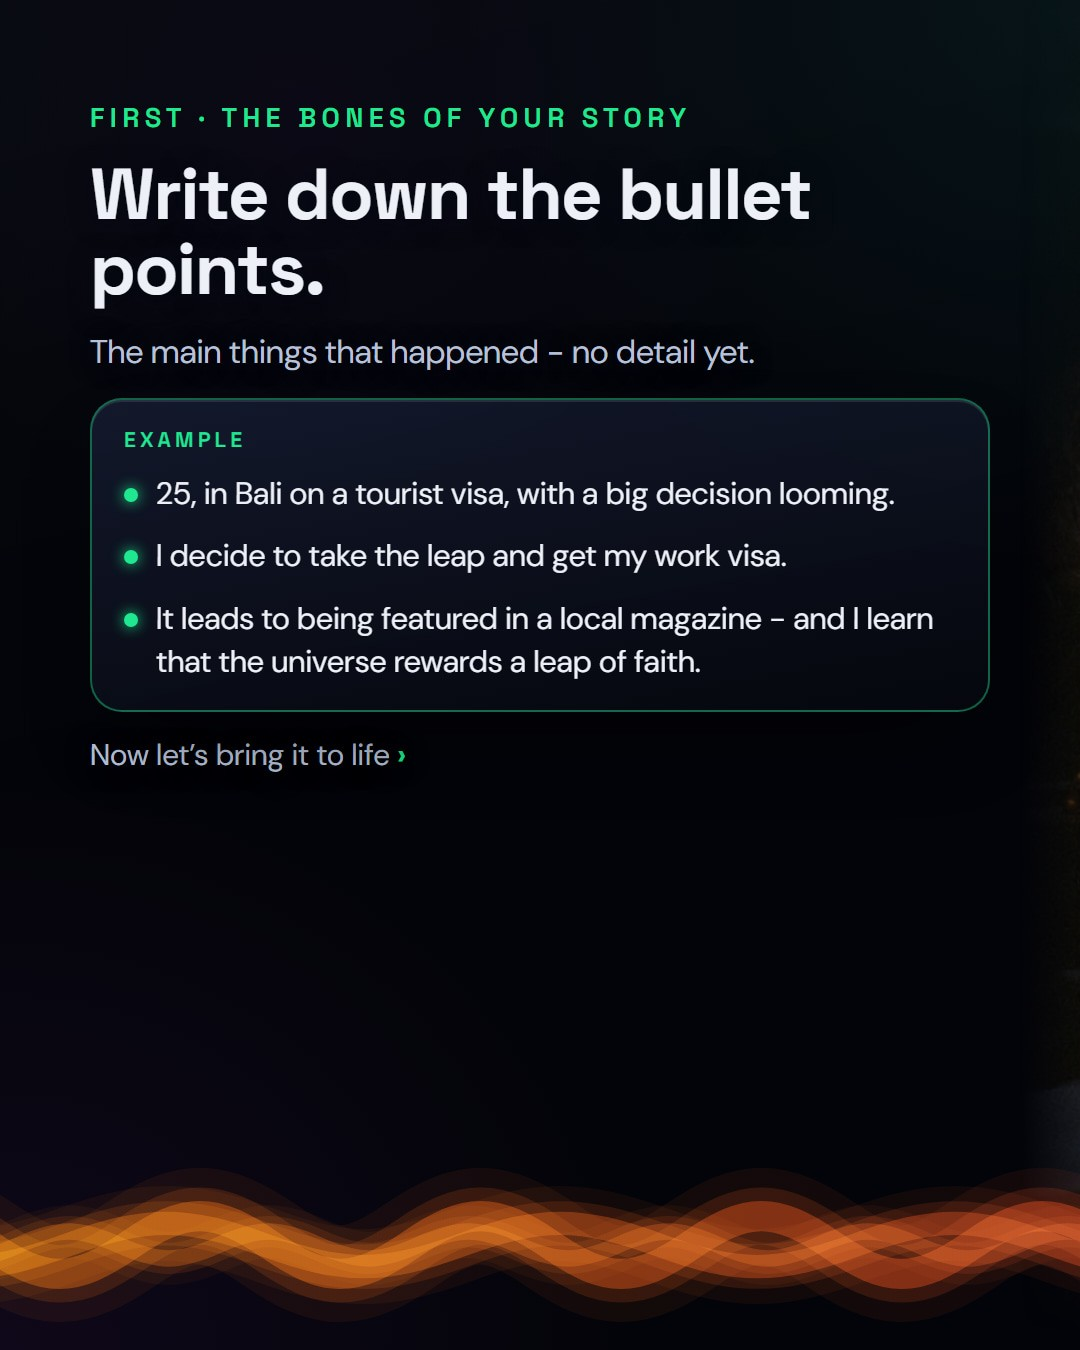
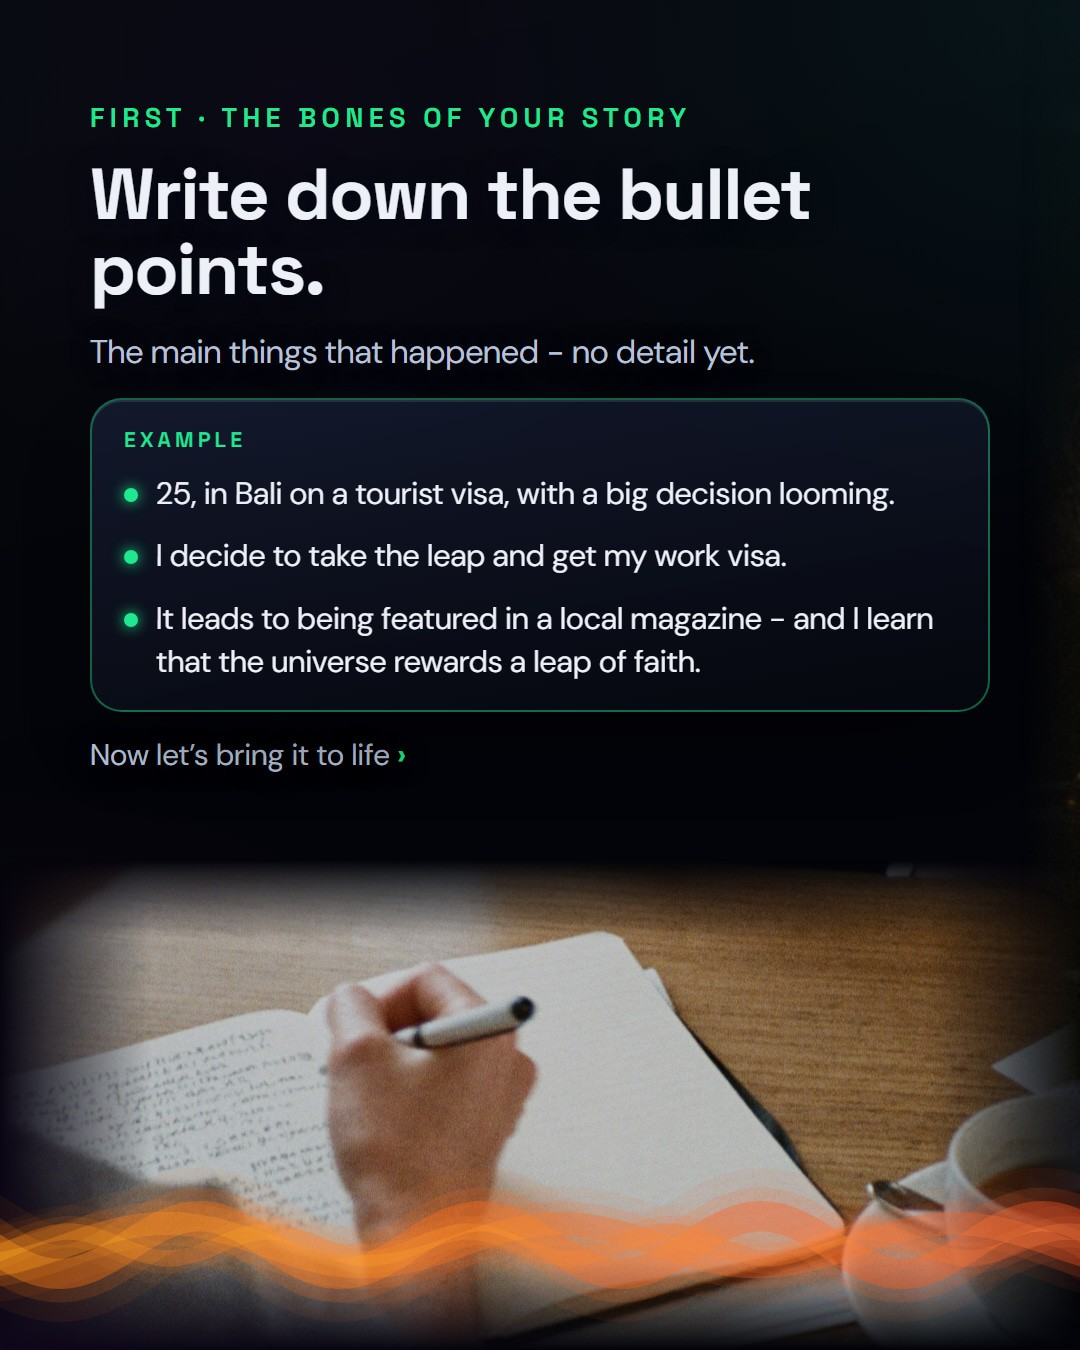
Phone deck viewer: Post 4 black - slide 4, pen and notebook

Changed region(s): [[0.0, 0.6222, 0.9778, 0.9956]]

diff --git a/public/d-BlBAiR0ZRDrG/post4-black.html b/public/d-BlBAiR0ZRDrG/post4-black.html
@@ -6,8 +6,8 @@ main{max-width:540px;margin:0 auto;padding:16px 16px 48px}h1{font-size:18px;marg
 .pano{overflow-x:auto;border-radius:8px}.pano img{height:260px;display:block}h2{font-size:14px;margin:22px 0 8px;color:#B9C0D8}.nav{position:absolute;top:50%;transform:translateY(-50%);width:46px;height:46px;border-radius:50%;border:1px solid rgba(255,255,255,.25);background:rgba(7,11,24,.72);color:#fff;font-size:26px;line-height:1;cursor:pointer;display:flex;align-items:center;justify-content:center;backdrop-filter:blur(6px)}
 .nav:disabled{opacity:.25;cursor:default}#prev{left:10px}#next{right:10px}.dots i{cursor:pointer;width:9px;height:9px}.count{text-align:center;font-size:13px;color:#8790AB;margin-top:-8px}</style></head><body><main>
 <a href="index.html">‹ All</a><h1>Post 4 · How to Tell Epic Stories - black</h1><small>15 slides · swipe like Instagram</small><small style="display:block;margin:6px 0">Version: <a href="post4.html">Glassy gradient</a> · <a href="post4-black.html">Black</a></small>
-<div class="wrap"><div class="car" id="c"><img src="post4-black/01.jpg?v=20" alt="Slide 1"><img src="post4-black/02.jpg?v=20" alt="Slide 2"><img src="post4-black/03.jpg?v=20" alt="Slide 3"><img src="post4-black/04.jpg?v=20" alt="Slide 4"><img src="post4-black/05.jpg?v=20" alt="Slide 5"><img src="post4-black/06.jpg?v=20" alt="Slide 6"><img src="post4-black/07.jpg?v=20" alt="Slide 7"><img src="post4-black/08.jpg?v=20" alt="Slide 8"><img src="post4-black/09.jpg?v=20" alt="Slide 9"><img src="post4-black/10.jpg?v=20" alt="Slide 10"><img src="post4-black/11.jpg?v=20" alt="Slide 11"><img src="post4-black/12.jpg?v=20" alt="Slide 12"><img src="post4-black/13.jpg?v=20" alt="Slide 13"><img src="post4-black/14.jpg?v=20" alt="Slide 14"><img src="post4-black/15.jpg?v=20" alt="Slide 15"></div><button class="nav" id="prev" aria-label="Previous slide">&#8249;</button><button class="nav" id="next" aria-label="Next slide">&#8250;</button></div><div class="dots" id="d"><i></i><i></i><i></i><i></i><i></i><i></i><i></i><i></i><i></i><i></i><i></i><i></i><i></i><i></i><i></i></div><p class="count" id="n"></p>
-<h2>The whole panorama (scroll sideways)</h2><div class="pano"><img src="post4-black/panorama.jpg?v=20" alt="Full panorama"></div>
+<div class="wrap"><div class="car" id="c"><img src="post4-black/01.jpg?v=21" alt="Slide 1"><img src="post4-black/02.jpg?v=21" alt="Slide 2"><img src="post4-black/03.jpg?v=21" alt="Slide 3"><img src="post4-black/04.jpg?v=21" alt="Slide 4"><img src="post4-black/05.jpg?v=21" alt="Slide 5"><img src="post4-black/06.jpg?v=21" alt="Slide 6"><img src="post4-black/07.jpg?v=21" alt="Slide 7"><img src="post4-black/08.jpg?v=21" alt="Slide 8"><img src="post4-black/09.jpg?v=21" alt="Slide 9"><img src="post4-black/10.jpg?v=21" alt="Slide 10"><img src="post4-black/11.jpg?v=21" alt="Slide 11"><img src="post4-black/12.jpg?v=21" alt="Slide 12"><img src="post4-black/13.jpg?v=21" alt="Slide 13"><img src="post4-black/14.jpg?v=21" alt="Slide 14"><img src="post4-black/15.jpg?v=21" alt="Slide 15"></div><button class="nav" id="prev" aria-label="Previous slide">&#8249;</button><button class="nav" id="next" aria-label="Next slide">&#8250;</button></div><div class="dots" id="d"><i></i><i></i><i></i><i></i><i></i><i></i><i></i><i></i><i></i><i></i><i></i><i></i><i></i><i></i><i></i></div><p class="count" id="n"></p>
+<h2>The whole panorama (scroll sideways)</h2><div class="pano"><img src="post4-black/panorama.jpg?v=21" alt="Full panorama"></div>
 <small style="display:block;margin-top:18px">Private link - please don't share.</small></main>
 <script>const c=document.getElementById("c"),d=[...document.querySelectorAll("#d i")],p=document.getElementById("prev"),x=document.getElementById("next"),n=document.getElementById("n");
 const at=()=>Math.round(c.scrollLeft/c.clientWidth),go=i=>c.scrollTo({left:Math.max(0,Math.min(d.length-1,i))*c.clientWidth,behavior:"smooth"});
